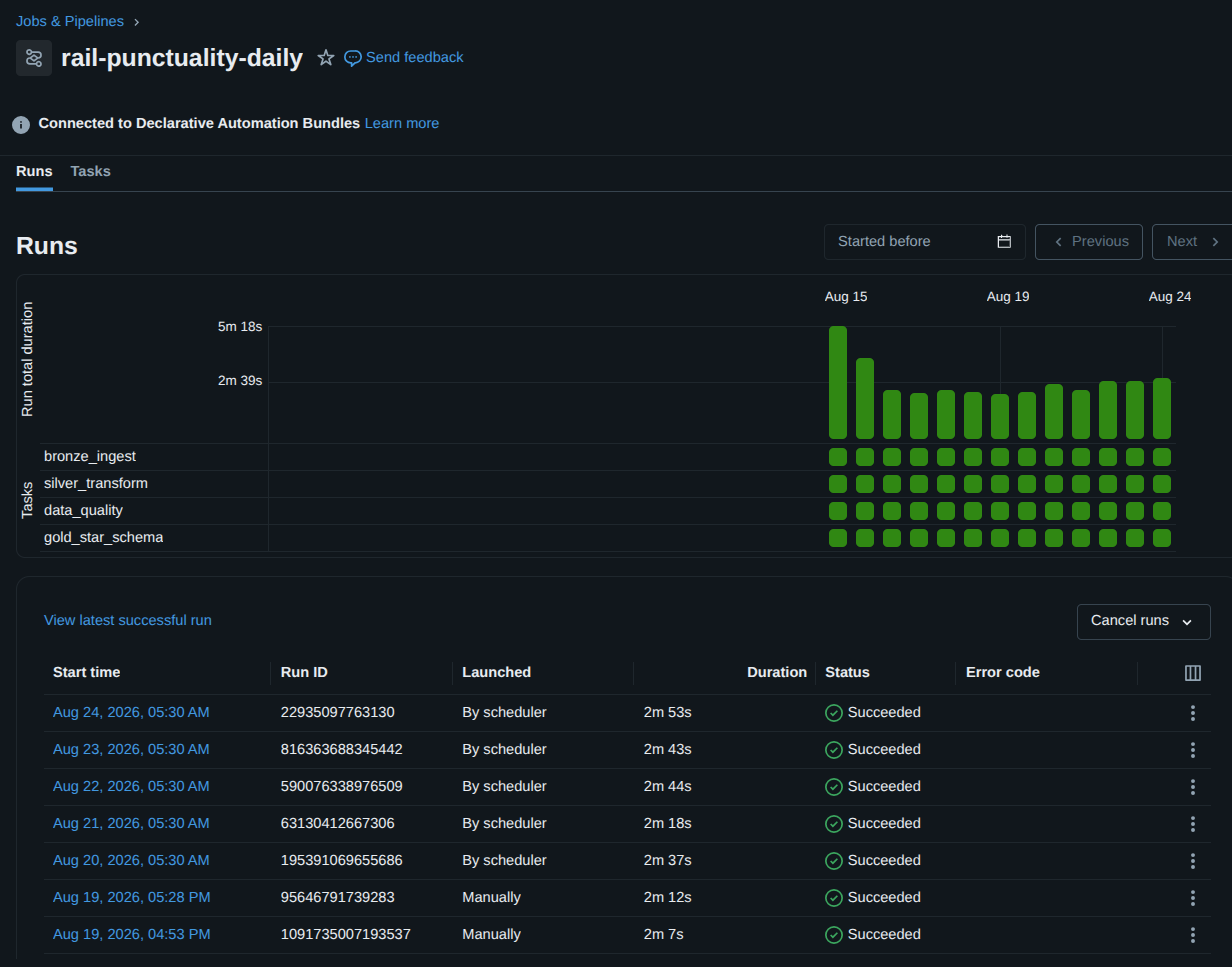
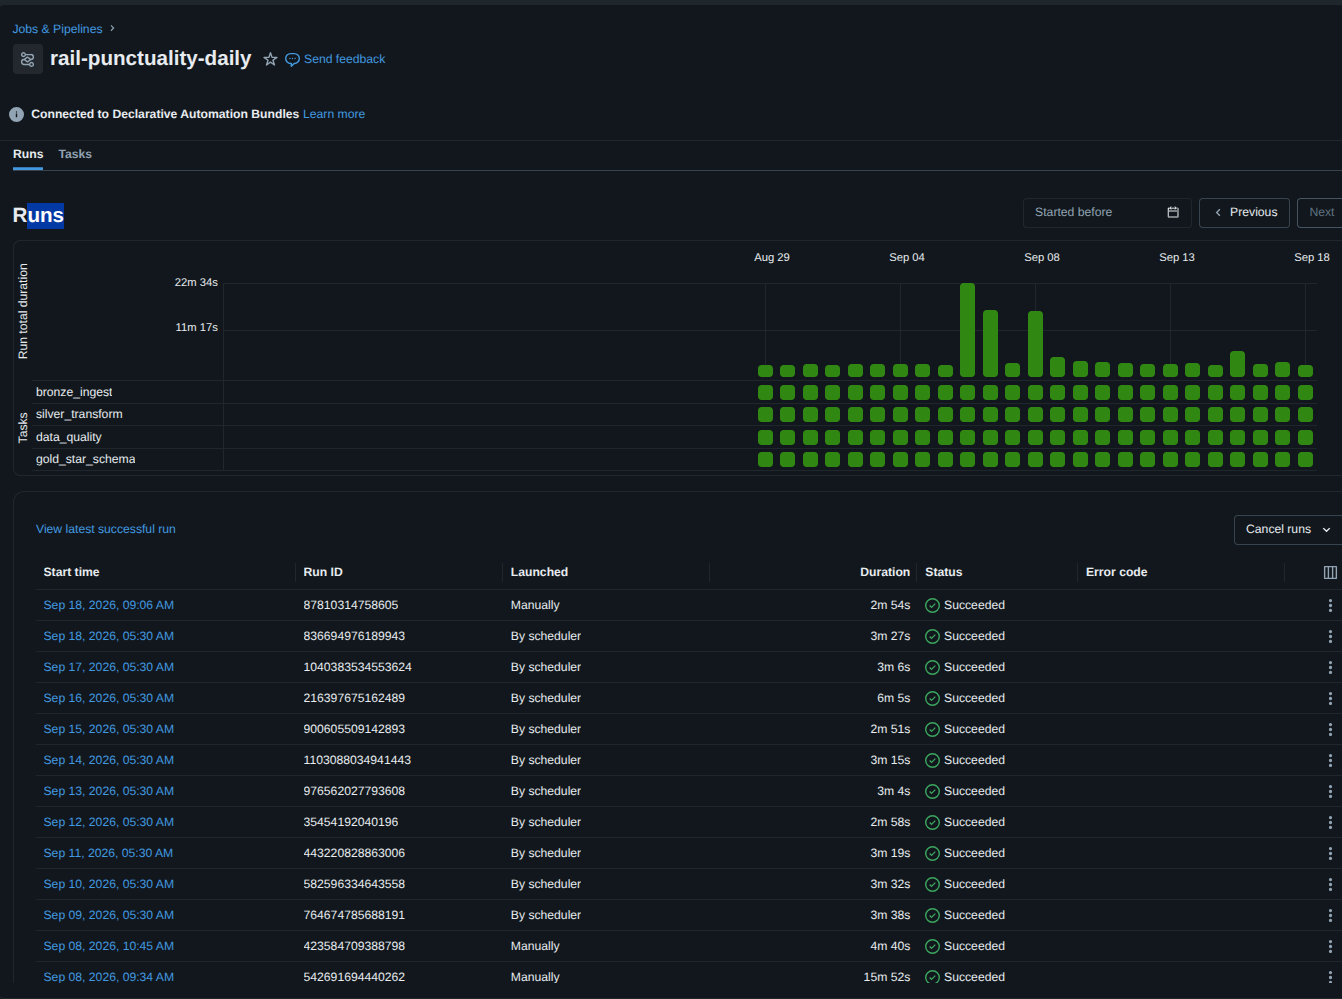
docs: update  job-run screenshot and add backfill-timing operational note

diff --git a/README.md b/README.md
@@ -213,6 +213,8 @@ flowchart LR
 
 ![Job run history](docs/img/job_runs.png)
 
+*Duration spikes in early September (up to ~22 min against a ~3 min baseline) occurred when the ad-hoc monthly backfill (`01c` / `91`) ran immediately before the daily job; they stopped once the two were no longer run back to back. The "Manually" launches are validation runs after deploying changes, not scheduled executions — every run in this window succeeded. Scheduled runs still show 05:30 because the screenshot predates the move to 07:00 (see Upstream refresh timing below).*
+
 - **`bronze_ingest`** — fetches the D-1 export over HTTP, validates that it actually covers the expected service date, stages it to a Unity Catalog Volume, and incrementally ingests it into `bronze.punctuality_raw` with Auto Loader. Retries run at a **1-hour interval**: long enough for a late upstream publication to land without burning through attempts immediately, short enough to leave room for manual intervention within the ~23-hour window before the next scheduled run.
 - **`silver_transform`** — types, deduplicates, and enriches Bronze data, then `MERGE`s into `silver.stop_event` under the monthly-wins rule. On completion it publishes the run's `service_date` as a Databricks Jobs task value.
 - **`gold_star_schema`** and **`data_quality`** run in parallel once Silver completes, since neither depends on the other. Both consume the `service_date` task value — Gold receives it as a SQL task parameter and binds it to a session variable. `dim_date` is a static calendar created once; the dimensions are upserted by `MERGE` scoped to the run's `service_date`, and the fact is `MERGE`d for the same date with the target pruned on `date_key`. No statement in the task scans Silver in full.
@@ -243,6 +245,8 @@ The monthly path is deliberately not on the schedule: the files are ~2M rows eac
 | `92_export_gold_to_blob.py` | Gold | Parquet export on Azure Blob | `start_year`, `end_year`, storage and secret widgets | `91` or the daily job |
 
 Files prefixed `00_migration_` are run once, manually, before deploying the change they support. They are not part of the scheduled job.
+
+Do not run the backfill notebooks immediately before the scheduled job: they are not part of the job definition, so `max_concurrent_runs: 1` does not serialize them against it, and an overlapping run extends the daily job's runtime well past its normal ~3 minutes.
 
 ## Data Quality
 
